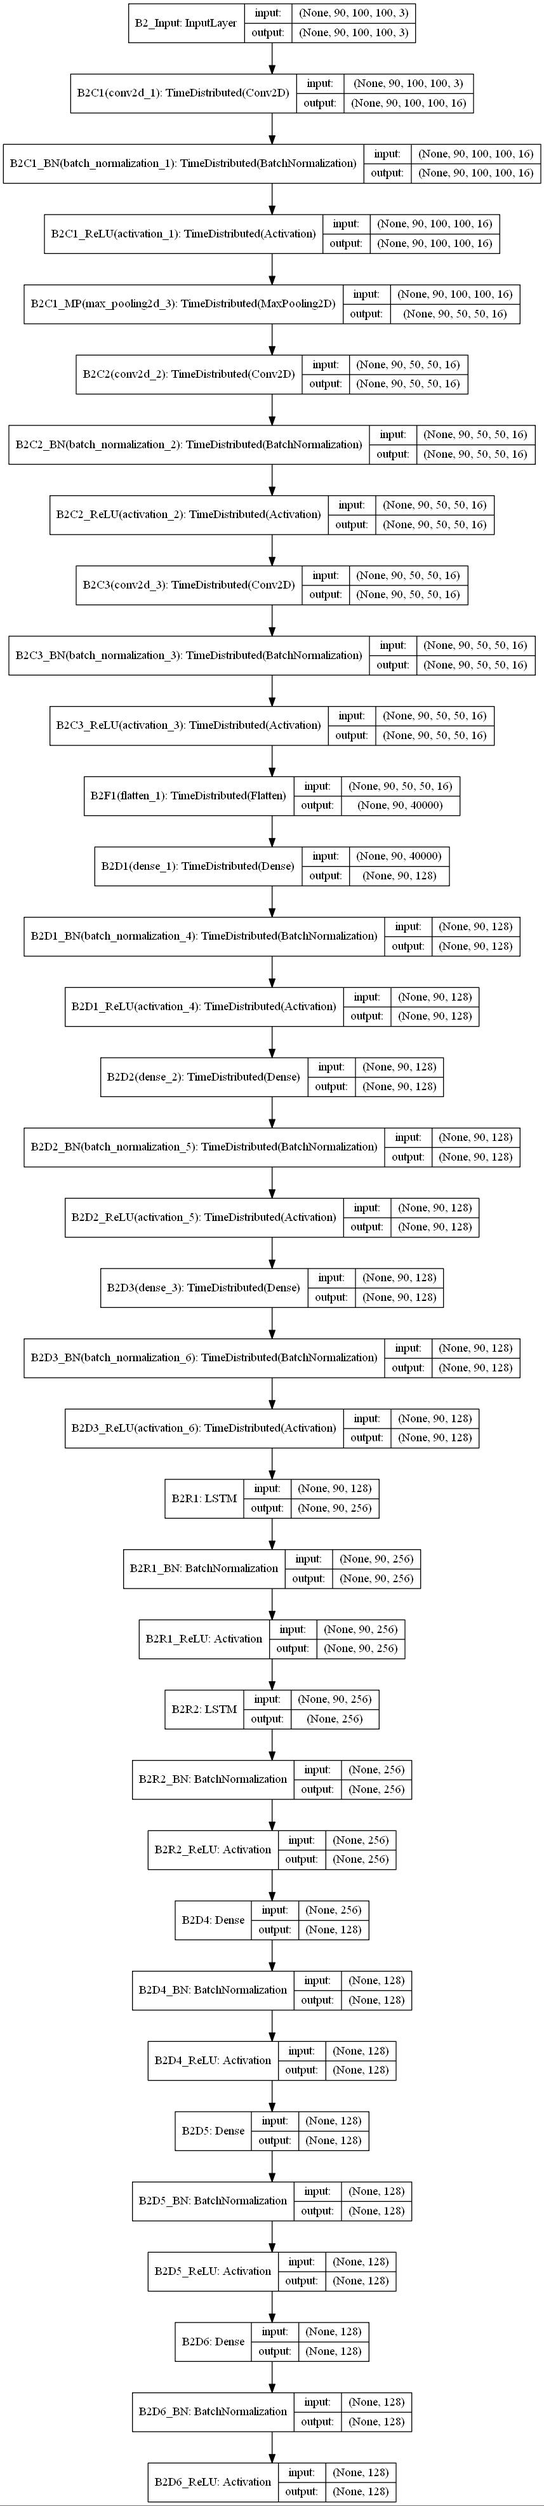
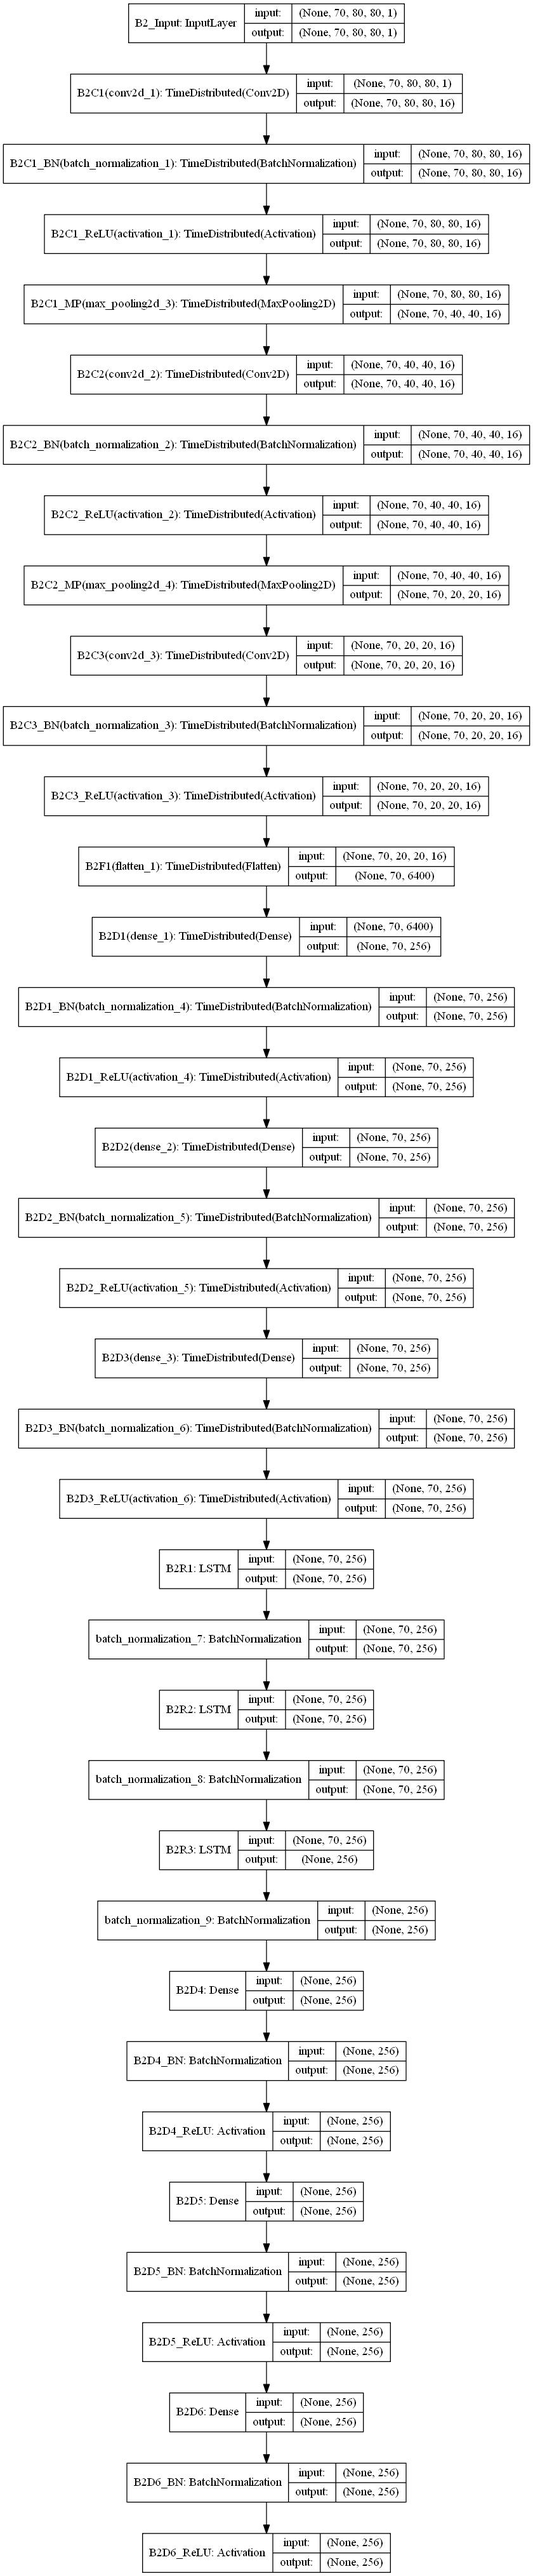
model

Changed region(s): [[0.0, 0.0, 1.0, 1.0], [0.0, 0.2493, 0.0619, 0.2805], [0.031, 0.4363, 0.0619, 0.4674]]

diff --git a/Project_DNN/scripts/models.py b/Project_DNN/scripts/models.py
@@ -86,7 +86,6 @@ def Layer_B2():
     b2_dropout = 0.00
 
     b2_input = Input(shape=(70, 80, 80, 1), name='B2_Input')
-    #b2 = _add_BN_ReLU_DO_TD(b2, b2_dropout)
     b2 = TimeDistributed(Conv2D(filters=16,
                                 kernel_size=3,
                                 strides=1,
@@ -110,21 +109,23 @@ def Layer_B2():
                                 name='B2C3')(b2)
     b2 = _add_BN_ReLU_SpDO_TD(b2, b2_dropout)
     b2 = TimeDistributed(Flatten(), name="B2F1")(b2)
-    b2 = TimeDistributed(Dense(128), name="B2D1")(b2)
+    b2 = TimeDistributed(Dense(256), name="B2D1")(b2)
     b2 = _add_BN_ReLU_DO_TD(b2, b2_dropout)
-    b2 = TimeDistributed(Dense(128), name="B2D2")(b2)
+    b2 = TimeDistributed(Dense(256), name="B2D2")(b2)
     b2 = _add_BN_ReLU_DO_TD(b2, b2_dropout)
-    b2 = TimeDistributed(Dense(128), name="B2D3")(b2)
+    b2 = TimeDistributed(Dense(256), name="B2D3")(b2)
     b2 = _add_BN_ReLU_DO_TD(b2, b2_dropout)
-    b2 = LSTM(256, dropout=b2_dropout, return_sequences=True, name='B2R1')(b2)
+    b2 = LSTM(256, return_sequences=True, name='B2R1')(b2)
+    b2 = BatchNormalization()(b2)
+    b2 = LSTM(256, return_sequences=True,  name='B2R2')(b2)
+    b2 = BatchNormalization()(b2)
+    b2 = LSTM(256, name='B2R3')(b2)
+    b2 = BatchNormalization()(b2)
+    b2 = Dense(256, name='B2D4')(b2)
     b2 = _add_BN_ReLU_DO(b2, b2_dropout)
-    b2 = LSTM(256, dropout=b2_dropout, name='B2R2')(b2)
+    b2 = Dense(256, name='B2D5')(b2)
     b2 = _add_BN_ReLU_DO(b2, b2_dropout)
-    b2 = Dense(128, name='B2D4')(b2)
-    b2 = _add_BN_ReLU_DO(b2, b2_dropout)
-    b2 = Dense(128, name='B2D5')(b2)
-    b2 = _add_BN_ReLU_DO(b2, b2_dropout)
-    b2 = Dense(128, name='B2D6')(b2)
+    b2 = Dense(256, name='B2D6')(b2)
     b2 = _add_BN_ReLU_DO(b2, b2_dropout)
     
     b2_output = b2
@@ -150,7 +151,7 @@ def Model_M1():
       lr=1e-4로 최소 epoch 60번은 돌려야 2,3을 구분할 수 있더라
     '''
     m1_dropout = 0.0
-    m1_learningRate = 1e-3
+    m1_learningRate = 5e-5
     #decay_rate = m1_learningRate / 20 # lr/epoches
     #relu_alpha = 0.1
 
@@ -158,11 +159,12 @@ def Model_M1():
     b2i, b2o = Layer_B2()
 
     x = Concatenate(name='M1M1')([b1o, b2o])
-    x = Dense(128, name='M1D1')(x)
+    x = BatchNormalization()(x)
+    x = Dense(256, name='M1D1')(x)
     x = _add_BN_ReLU_DO(x, m1_dropout)
-    x = Dense(128, name='M1D2')(x)
+    x = Dense(256, name='M1D2')(x)
     x = _add_BN_ReLU_DO(x, m1_dropout)
-    x = Dense(128, name='M1D3')(x)
+    x = Dense(256, name='M1D3')(x)
     x = _add_BN_ReLU_DO(x, m1_dropout)
     
     x = Dense(define.LABEL_SIZE, name='M1D4')(x)
@@ -170,12 +172,14 @@ def Model_M1():
     x = Softmax(name='Softmax')(x)
     m1o = x
     
-    optimizer = Adam(lr=m1_learningRate)
+    optimizer = RMSprop(lr=m1_learningRate)
 
     # model.compile(loss_weights={'main_output': 1., 'aux_output': 0.2})
     model = Model(inputs=[b1i, b2i], outputs=[m1o])
     model.name = 'M1'
-    model.compile(optimizer=optimizer, loss='categorical_crossentropy', metrics=['accuracy'])
+    model.compile(optimizer=optimizer,
+                  loss='categorical_crossentropy',
+                  metrics=['accuracy'])
 
     return model
 

diff --git a/Project_DNN/do_Learning.py b/Project_DNN/do_Learning.py
@@ -81,7 +81,14 @@ m1.fit([spointList_train, roiSampleList_train], [labelList_train],
     verbose=1,
     batch_size=m1_batch_size)
 
-util.showProcess('Evaluate M1')
+util.showProcess('Evaluate M1 Batch_Size_1')
+score, acc = m1.evaluate([spointList_train, roiSampleList_train],
+                         [labelList_train],
+                         batch_size=1)
+print('Test score:', score)
+print('Test accuracy:', acc)
+
+util.showProcess('Evaluate M1 Batch_Size')
 score, acc = m1.evaluate([spointList_train, roiSampleList_train],
                          [labelList_train],
                          batch_size=m1_batch_size)

diff --git a/Project_DNN/scripts/dataFormater.py b/Project_DNN/scripts/dataFormater.py
@@ -94,7 +94,7 @@ def _loadImageFiles(dirpath, fileList, isShow):
     imgList = []
 
     for file in fileList:      
-        img = image.load_img(dirpath + "/" + file)
+        img = image.load_img(dirpath + "/" + file, grayscale=True)
         array = image.img_to_array(img)
         imgList.append(array)
     
